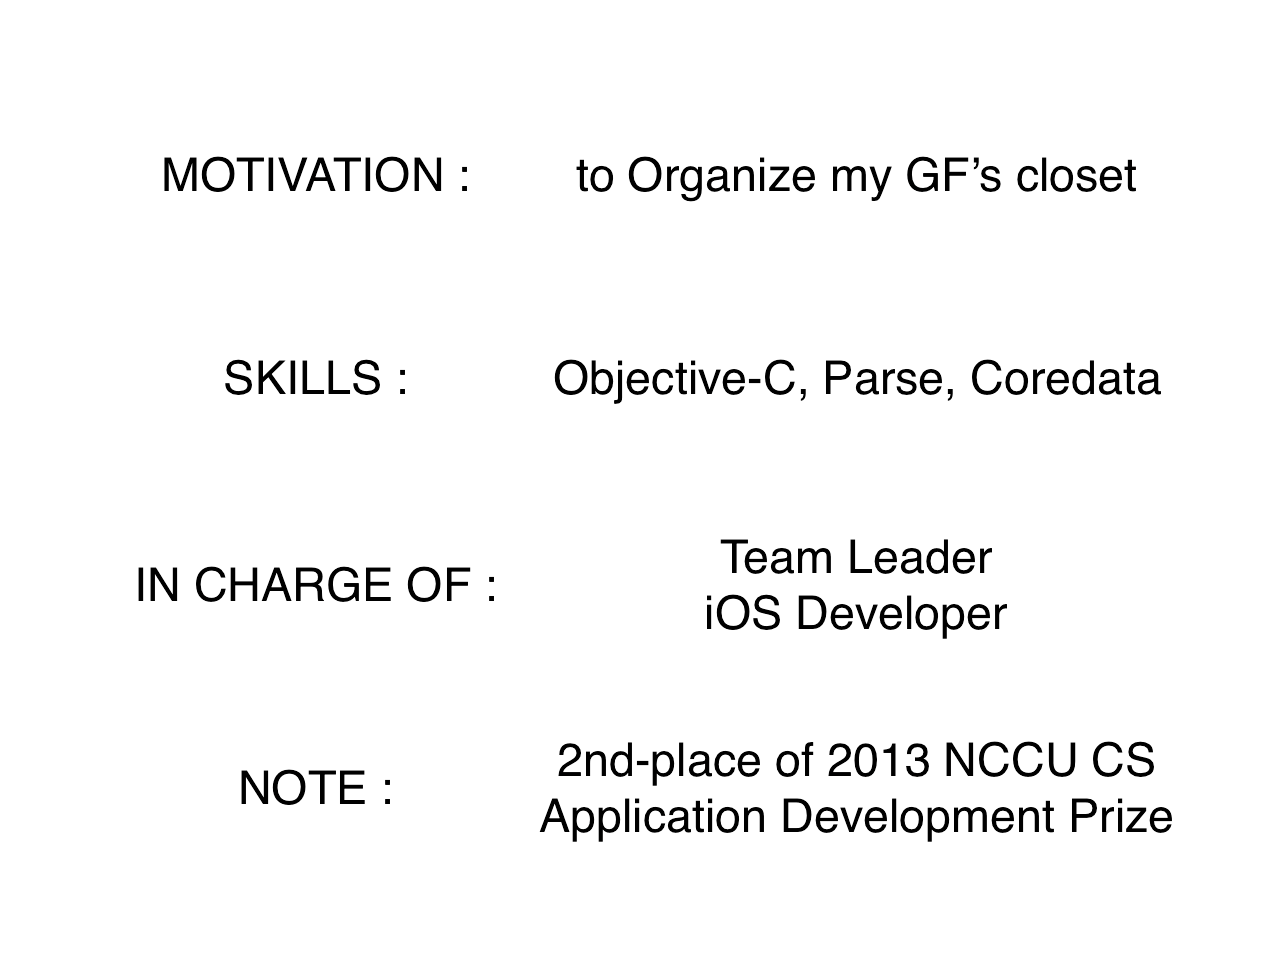
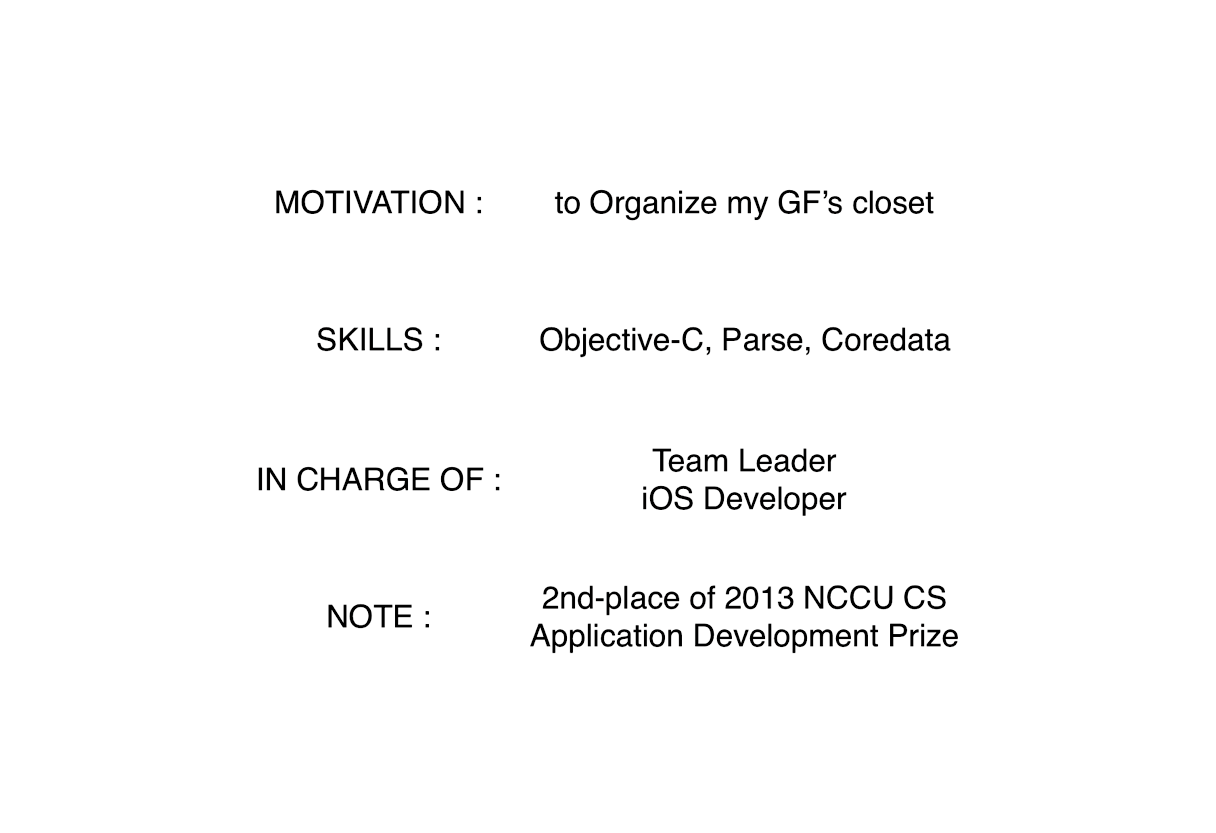
optimize the image

diff --git a/index.html b/index.html
@@ -8,7 +8,7 @@
     <meta name="author" content="">
     <link rel="shortcut icon" type="image/x-icon" href="images/favicon.ico" />
 
-    <title>EVIN --- Personal Website</title>
+    <title> ---- Personal Website ----</title>
 
     <!-- Bootstrap core CSS -->
     <link href="bootstrap/css/bootstrap.css" rel="stylesheet">
